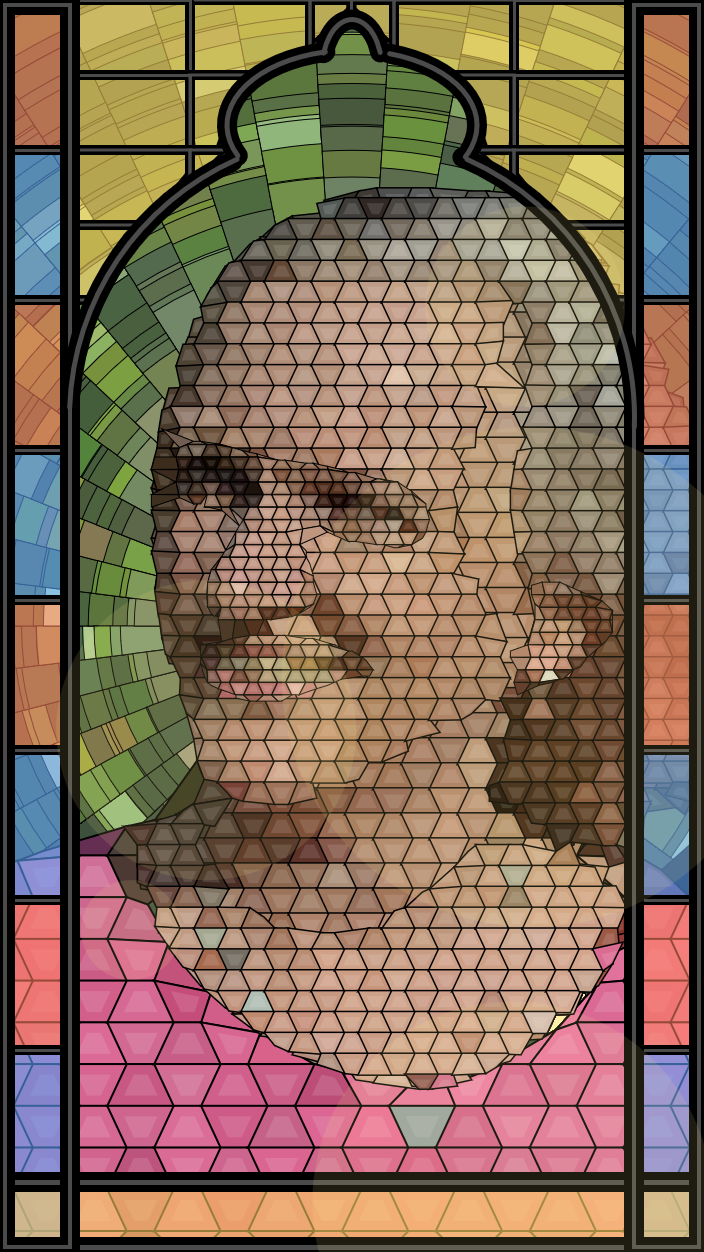
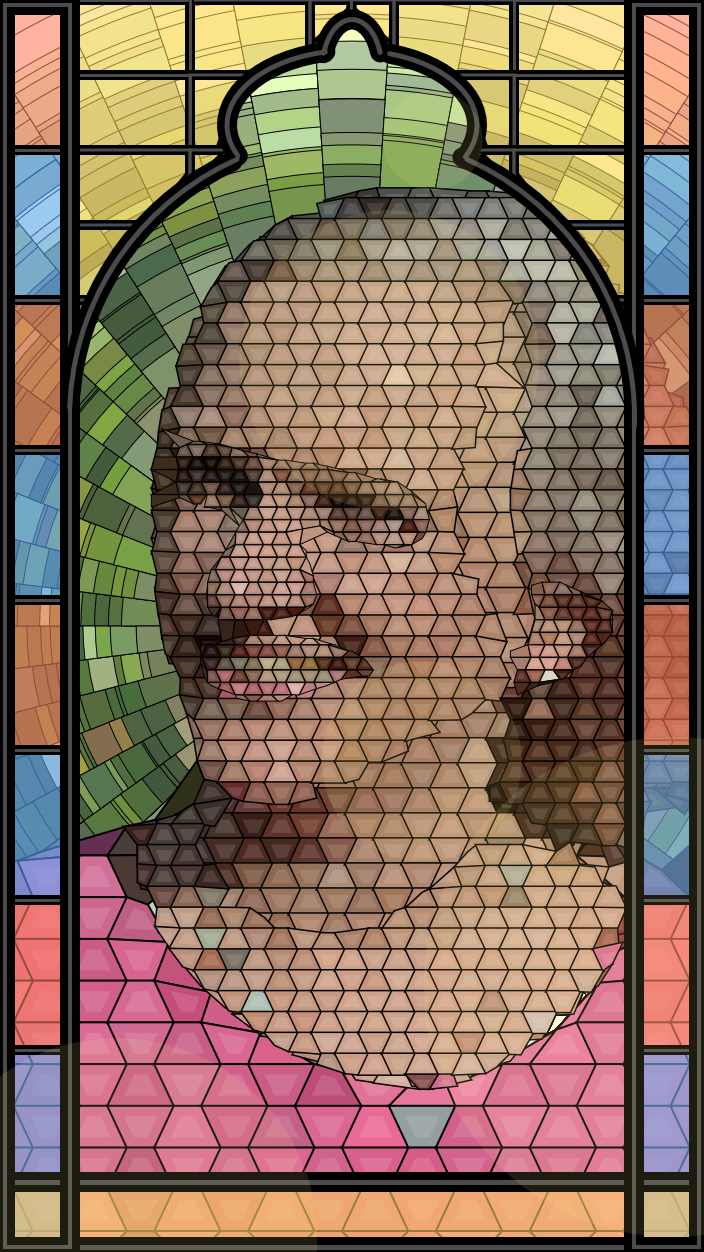
updatedd colours

diff --git a/sketch.js b/sketch.js
@@ -58,8 +58,14 @@ angleMode(DEGREES);
           let Rg = green(Rc);
           let Rb = blue(Rc);
 
+          if(j > 30){
+          let LightScale = map(j, 50, 1, 20, -30);
+          LightScale = LightScale*10;
           fill(sourceImg.get(testX, testY));
-          fill(color(Rr+60, Rg+80, Rb+60));
+          fill(color(Rr+60+LightScale, Rg+80+LightScale, Rb+60+LightScale));
+          } else {
+            fill(color(Rr+60, Rg+80, Rb+60));
+          }
          let mask = maskImg.get(testX, testY);
          if(mask[0] < 40){
            arc(width/2, height/2, H, H, i*(360/numSlice), (360/numSlice)+(i*(360/numSlice)), PIE);
